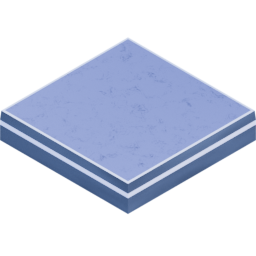
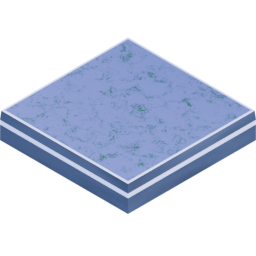
fix documentation, change normal-tile texture, add lv7

diff --git a/components/GameBoard.tsx b/components/GameBoard.tsx
@@ -93,14 +93,14 @@ const LEVEL_DATA: Record<number, number[][]> = {
   7: [
     [13, 12, 12, 12, 12, 12, 12, 12, 12, 16],
     [11,  0,  0,  0,  0,  0,  0,  0,  0, 11],
-    [11,  0,  0,  0,  0,  0,  0,  0,  0, 11],
-    [11,  0,  0,  0,  0,  0,  0,  0,  0, 11],
-    [11,  0,  0,  0,  0,  0,  0,  0,  0, 11],
-    [11,  0,  0,  0,  0,  0,  0,  0,  0, 11],
-    [11,  0,  0,  0,  0,  0,  0,  0,  0, 11],
-    [11,  0,  0,  0,  0,  0,  0,  0,  0, 11],
-    [11,  0,  0,  0,  0,  0,  0,  0,  0, 11],
-    [15, 12, 12, 12, 12, 12, 12, 12, 12, 14],
+    [11,  0, 21,  5, 25, 42,  5, 20,  0, 11],
+    [11,  0,  6, 33,  6,  4,  0,  6,  0, 11],
+    [11,  0,  6,  0, 19,  3, 20,  6,  0, 11],
+    [11,  0,  6,  0,  0,  0,  6,  6,  0, 11],
+    [11,  0,  6, 32,  6,  0,  6,  6,  0, 11],
+    [11,  0, 24,  5, 18,  0, 19, 18,  0, 11],
+    [11,  0, 51, 31,  0,  0,  0,  0,  0, 11],
+    [15, 12,  9, 12, 12, 12, 12, 12, 12, 14],
   ],
  
   8: [
@@ -439,7 +439,7 @@ export default function GameBoard({ level, onWin }: GameBoardProps) {
                       cell === 24 ? "/assets/inner-T-S.png" :
                       cell === 25 ? "/assets/inner-T-W.png" :
                       cell === 26 ? "/assets/inner+.png" : 
-                      "/assets/normal-tile.png"
+                      "/assets/broken-tile.png"
                     }
                     alt="wall"
                     style={{